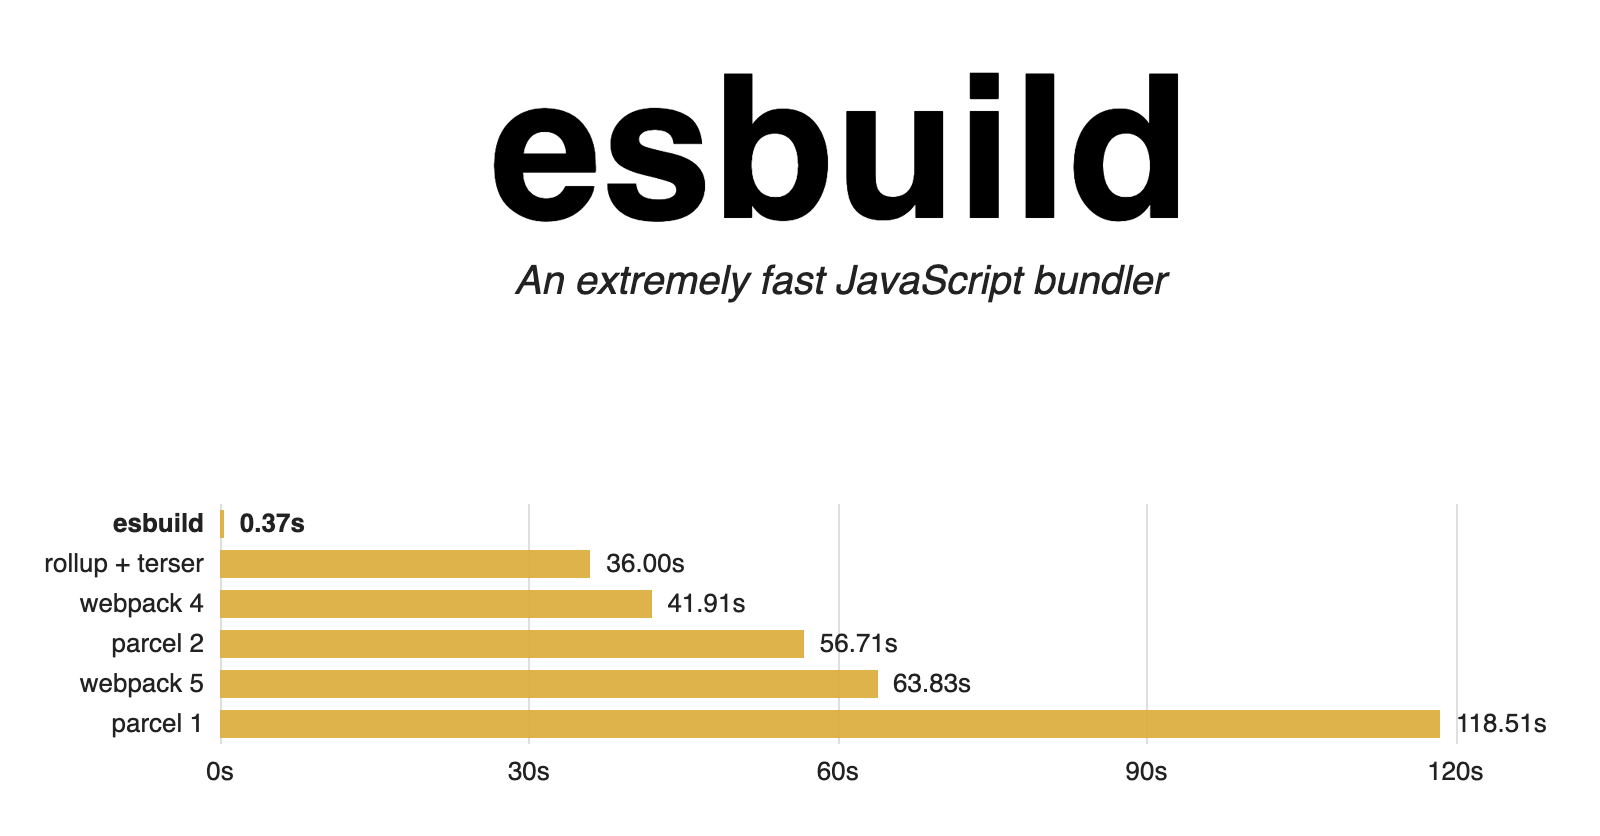
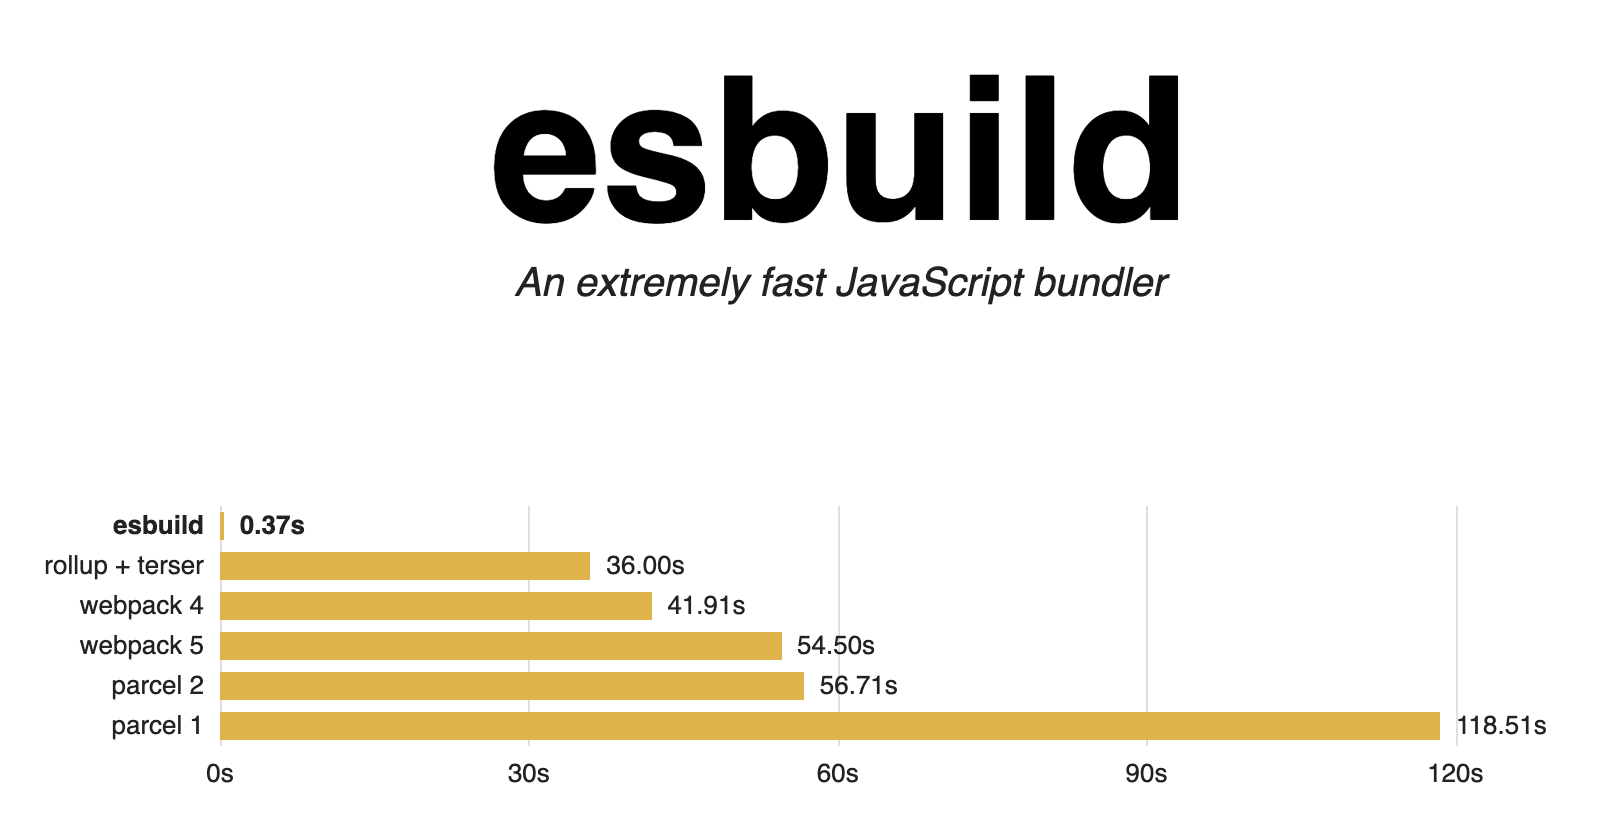
update webpack 5 in benchmarks

diff --git a/faq/index.html b/faq/index.html
@@ -165,14 +165,14 @@
           <div style="position:absolute;left:0;top:63px;width:30.16%;height:14px;background:rgba(231,173,0,0.9);" class="bench0-bar3"></div>
           <div style="position:absolute;right:100%;top:60px;width:120px;height:20px;text-align:right;white-space:nowrap;margin-right:8px;" class="bench0-label3"><a href="https://github.com/webpack/webpack">webpack</a> 4</div>
           <div style="position:absolute;left:30.16%;top:60px;height:20px;margin-left:8px;" class="bench0-label3">41.91s</div>
-          <div style="position:absolute;left:0;top:83px;width:40.82%;height:14px;background:rgba(127,127,127,0.2);"></div>
-          <div style="position:absolute;left:0;top:83px;width:40.82%;height:14px;background:rgba(231,173,0,0.9);" class="bench0-bar4"></div>
-          <div style="position:absolute;right:100%;top:80px;width:120px;height:20px;text-align:right;white-space:nowrap;margin-right:8px;" class="bench0-label4"><a href="https://github.com/parcel-bundler/parcel">parcel</a> 2</div>
-          <div style="position:absolute;left:40.82%;top:80px;height:20px;margin-left:8px;" class="bench0-label4">56.71s</div>
-          <div style="position:absolute;left:0;top:103px;width:45.94%;height:14px;background:rgba(127,127,127,0.2);"></div>
-          <div style="position:absolute;left:0;top:103px;width:45.94%;height:14px;background:rgba(231,173,0,0.9);" class="bench0-bar5"></div>
-          <div style="position:absolute;right:100%;top:100px;width:120px;height:20px;text-align:right;white-space:nowrap;margin-right:8px;" class="bench0-label5"><a href="https://github.com/webpack/webpack">webpack</a> 5</div>
-          <div style="position:absolute;left:45.94%;top:100px;height:20px;margin-left:8px;" class="bench0-label5">63.83s</div>
+          <div style="position:absolute;left:0;top:83px;width:39.22%;height:14px;background:rgba(127,127,127,0.2);"></div>
+          <div style="position:absolute;left:0;top:83px;width:39.22%;height:14px;background:rgba(231,173,0,0.9);" class="bench0-bar4"></div>
+          <div style="position:absolute;right:100%;top:80px;width:120px;height:20px;text-align:right;white-space:nowrap;margin-right:8px;" class="bench0-label4"><a href="https://github.com/webpack/webpack">webpack</a> 5</div>
+          <div style="position:absolute;left:39.22%;top:80px;height:20px;margin-left:8px;" class="bench0-label4">54.50s</div>
+          <div style="position:absolute;left:0;top:103px;width:40.82%;height:14px;background:rgba(127,127,127,0.2);"></div>
+          <div style="position:absolute;left:0;top:103px;width:40.82%;height:14px;background:rgba(231,173,0,0.9);" class="bench0-bar5"></div>
+          <div style="position:absolute;right:100%;top:100px;width:120px;height:20px;text-align:right;white-space:nowrap;margin-right:8px;" class="bench0-label5"><a href="https://github.com/parcel-bundler/parcel">parcel</a> 2</div>
+          <div style="position:absolute;left:40.82%;top:100px;height:20px;margin-left:8px;" class="bench0-label5">56.71s</div>
           <div style="position:absolute;left:0;top:123px;width:85.29%;height:14px;background:rgba(127,127,127,0.2);"></div>
           <div style="position:absolute;left:0;top:123px;width:85.29%;height:14px;background:rgba(231,173,0,0.9);" class="bench0-bar6"></div>
           <div style="position:absolute;right:100%;top:120px;width:120px;height:20px;text-align:right;white-space:nowrap;margin-right:8px;" class="bench0-label6"><a href="https://github.com/parcel-bundler/parcel">parcel</a> 1</div>
@@ -225,18 +225,18 @@
       <td style="text-align:right">5.97mb</td>
       </tr>
       <tr>
-      <td style="text-align:left">parcel 2</td>
-      <td style="text-align:right">56.71s</td>
-      <td style="text-align:right">154x</td>
-      <td style="text-align:right">9.7 kloc/s</td>
-      <td style="text-align:right">5.92mb</td>
+      <td style="text-align:left">webpack 5</td>
+      <td style="text-align:right">54.50s</td>
+      <td style="text-align:right">147x</td>
+      <td style="text-align:right">10.0 kloc/s</td>
+      <td style="text-align:right">5.84mb</td>
       </tr>
       <tr>
-      <td style="text-align:left">webpack 5</td>
-      <td style="text-align:right">63.83s</td>
-      <td style="text-align:right">173x</td>
-      <td style="text-align:right">8.6 kloc/s</td>
-      <td style="text-align:right">5.84mb</td>
+      <td style="text-align:left">parcel 2</td>
+      <td style="text-align:right">56.71s</td>
+      <td style="text-align:right">153x</td>
+      <td style="text-align:right">9.7 kloc/s</td>
+      <td style="text-align:right">5.92mb</td>
       </tr>
       <tr>
       <td style="text-align:left">parcel 1</td>
@@ -331,9 +331,9 @@
       </tr>
       <tr>
       <td style="text-align:left">webpack 5</td>
-      <td style="text-align:right">25.12s</td>
-      <td style="text-align:right">279x</td>
-      <td style="text-align:right">5.2 kloc/s</td>
+      <td style="text-align:right">24.57s</td>
+      <td style="text-align:right">273x</td>
+      <td style="text-align:right">5.4 kloc/s</td>
       <td style="text-align:right">1.26mb</td>
       </tr>
       <tr>

diff --git a/index.html b/index.html
@@ -125,10 +125,10 @@
         .bench0-label1 { animation: label-bold 36s linear; font-weight: bold }
         .bench0-bar2 { animation: scale-bar 41.91s linear; transform-origin: left }
         .bench0-label2 { animation: label-bold 41.91s linear; font-weight: bold }
-        .bench0-bar3 { animation: scale-bar 56.71s linear; transform-origin: left }
-        .bench0-label3 { animation: label-bold 56.71s linear; font-weight: bold }
-        .bench0-bar4 { animation: scale-bar 63.83s linear; transform-origin: left }
-        .bench0-label4 { animation: label-bold 63.83s linear; font-weight: bold }
+        .bench0-bar3 { animation: scale-bar 54.5s linear; transform-origin: left }
+        .bench0-label3 { animation: label-bold 54.5s linear; font-weight: bold }
+        .bench0-bar4 { animation: scale-bar 56.71s linear; transform-origin: left }
+        .bench0-label4 { animation: label-bold 56.71s linear; font-weight: bold }
         .bench0-bar5 { animation: scale-bar 118.51s linear; transform-origin: left }
         .bench0-label5 { animation: label-bold 118.51s linear; font-weight: bold }
       </style>
@@ -151,14 +151,14 @@
           <div style="position:absolute;left:0;top:43px;width:30.38%;height:14px;background:rgba(231,173,0,0.9);" class="bench0-bar2"></div>
           <div style="position:absolute;right:100%;top:40px;width:90px;height:20px;text-align:right;white-space:nowrap;margin-right:8px;" class="bench0-label2"><a href="https://github.com/webpack/webpack">webpack</a> 4</div>
           <div style="position:absolute;left:30.38%;top:40px;height:20px;margin-left:8px;" class="bench0-label2">41.91s</div>
-          <div style="position:absolute;left:0;top:63px;width:41.11%;height:14px;background:rgba(127,127,127,0.2);"></div>
-          <div style="position:absolute;left:0;top:63px;width:41.11%;height:14px;background:rgba(231,173,0,0.9);" class="bench0-bar3"></div>
-          <div style="position:absolute;right:100%;top:60px;width:90px;height:20px;text-align:right;white-space:nowrap;margin-right:8px;" class="bench0-label3"><a href="https://github.com/parcel-bundler/parcel">parcel</a> 2</div>
-          <div style="position:absolute;left:41.11%;top:60px;height:20px;margin-left:8px;" class="bench0-label3">56.71s</div>
-          <div style="position:absolute;left:0;top:83px;width:46.27%;height:14px;background:rgba(127,127,127,0.2);"></div>
-          <div style="position:absolute;left:0;top:83px;width:46.27%;height:14px;background:rgba(231,173,0,0.9);" class="bench0-bar4"></div>
-          <div style="position:absolute;right:100%;top:80px;width:90px;height:20px;text-align:right;white-space:nowrap;margin-right:8px;" class="bench0-label4"><a href="https://github.com/webpack/webpack">webpack</a> 5</div>
-          <div style="position:absolute;left:46.27%;top:80px;height:20px;margin-left:8px;" class="bench0-label4">63.83s</div>
+          <div style="position:absolute;left:0;top:63px;width:39.51%;height:14px;background:rgba(127,127,127,0.2);"></div>
+          <div style="position:absolute;left:0;top:63px;width:39.51%;height:14px;background:rgba(231,173,0,0.9);" class="bench0-bar3"></div>
+          <div style="position:absolute;right:100%;top:60px;width:90px;height:20px;text-align:right;white-space:nowrap;margin-right:8px;" class="bench0-label3"><a href="https://github.com/webpack/webpack">webpack</a> 5</div>
+          <div style="position:absolute;left:39.51%;top:60px;height:20px;margin-left:8px;" class="bench0-label3">54.50s</div>
+          <div style="position:absolute;left:0;top:83px;width:41.11%;height:14px;background:rgba(127,127,127,0.2);"></div>
+          <div style="position:absolute;left:0;top:83px;width:41.11%;height:14px;background:rgba(231,173,0,0.9);" class="bench0-bar4"></div>
+          <div style="position:absolute;right:100%;top:80px;width:90px;height:20px;text-align:right;white-space:nowrap;margin-right:8px;" class="bench0-label4"><a href="https://github.com/parcel-bundler/parcel">parcel</a> 2</div>
+          <div style="position:absolute;left:41.11%;top:80px;height:20px;margin-left:8px;" class="bench0-label4">56.71s</div>
           <div style="position:absolute;left:0;top:103px;width:85.92%;height:14px;background:rgba(127,127,127,0.2);"></div>
           <div style="position:absolute;left:0;top:103px;width:85.92%;height:14px;background:rgba(231,173,0,0.9);" class="bench0-bar5"></div>
           <div style="position:absolute;right:100%;top:100px;width:90px;height:20px;text-align:right;white-space:nowrap;margin-right:8px;" class="bench0-label5"><a href="https://github.com/parcel-bundler/parcel">parcel</a> 1</div>
